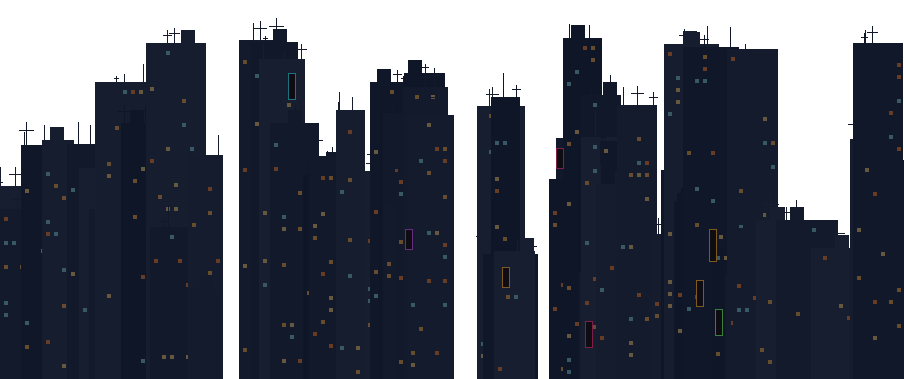
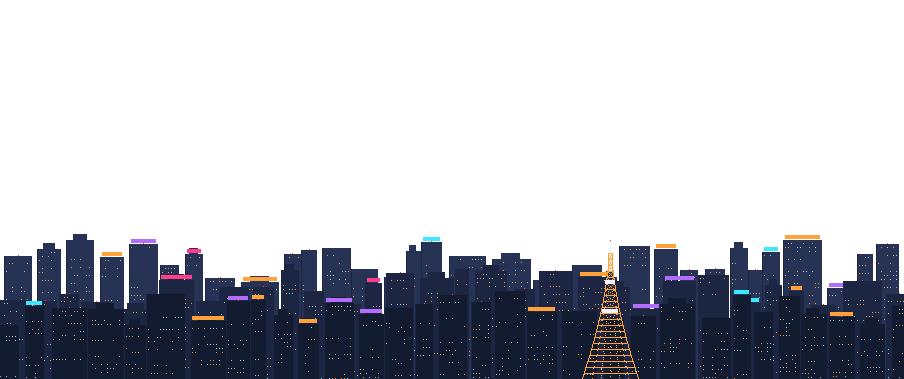
Ville peinte en pixel art (plan moyen + lointain)
- tools/pixlib.py : bibliothèque de peinture commune
- tools/paint_city.py : immeubles, toits, enseignes, câbles, tour en treillis
- Profondeur de champ repoussée pour garder le détail des toits

Claude-Session: https://claude.ai/code/session_01YTFKLDASncN46tU5ZSsTmj

diff --git a/tools/paint_city.py b/tools/paint_city.py
@@ -1,0 +1,264 @@
+"""
+paint_city.py — Ville japonaise de nuit en deux plans, peinte pixel par pixel.
+
+  city_mid  (z = -16, ~16 px/m) : immeubles proches, toits détaillés, enseignes empilées, câbles
+  city_far  (z = -40,  ~9 px/m) : skyline dense, tour en treillis, feux rouges d'obstacle
+
+Seule une bande de chaque plan est visible au-dessus du mur de la ruelle : la composition
+concentre les détails (toits, enseignes, réservoirs) dans cette bande.
+
+Usage : python3 tools/paint_city.py assets/env
+"""
+import sys, math
+import numpy as np
+sys.path.insert(0, __file__.rsplit("/", 1)[0])
+from pixlib import Canvas, PALETTE
+
+OUT = sys.argv[1] if len(sys.argv) > 1 else "assets/env"
+
+# ======================================================================== plan moyen
+MID_W, MID_H, MID_PX = 1142, 349, 15.86       # dimensions imposées par layers.json
+c = Canvas(MID_W, MID_H, seed=7)
+R = c.rng
+def m2px(meters): return int(round(meters * MID_PX))
+GROUND = MID_H                                 # y = -1 m au bas de l'image
+
+BODIES = [("n2", "n3", "n1"), ("t1", "t2", "t0"), ("q1", "q2", "q0"), ("n3", "n4", "n2")]
+SIGN_COLS = ["np", "nc", "ng", "no", "nv", "ny"]
+
+def water_tank(x, y):
+    """Réservoir cylindrique sur pieds, posé sur un toit (y = niveau du toit)."""
+    w, h = 16, 12
+    for i in range(3):
+        c.vline(x + 2 + i * 6, y - 6, 6, "m2")
+    c.hline(x, y - 6, w, "m3")
+    for yy in range(h):
+        for xx in range(w):
+            t = xx / (w - 1)
+            col = "m4" if 0.2 < t < 0.4 else ("m3" if t < 0.7 else "m2")
+            if yy in (2, h - 3): col = "m1"
+            c.px(x + xx, y - 6 - h + yy, col)
+    for xx in range(2, w - 2):                                   # couvercle bombé
+        c.px(x + xx, y - 6 - h - 1, "m3")
+    c.hline(x + 4, y - 6 - h - 2, w - 8, "m4")
+
+def billboard(x, y, w, h, col):
+    """Panneau publicitaire sur structure en treillis (y = niveau du toit)."""
+    leg = 10
+    for i in range(0, w, 8):
+        c.vline(x + i, y - leg, leg, "m2")
+        c.line(x + i, y - leg, x + i + 8, y, "m1")
+    c.hline(x, y - leg, w, "m3")
+    by = y - leg - h
+    c.rect(x, by, w, h, "m1")
+    c.rect(x + 1, by + 1, w - 2, h - 2, col, emi=(PALETTE[col] * 0.55).astype(np.uint8))
+    # visuel : bande + texte
+    c.rect(x + 2, by + 2, w // 3, h - 4, "nw", emi=(PALETTE["nw"] * 0.5).astype(np.uint8))
+    for i in range(3):
+        c.glyph_random(x + w // 3 + 5 + i * 9, by + (h - 7) // 2, 7, 7, "black", "black", 0.45)
+    for i in range(0, w, 6):                                     # spots éclairant le panneau
+        c.px(x + i + 2, by - 1, "wy3", "wy3")
+
+def rooftop_sign(x, y, n, col):
+    """Grandes lettres néon sur le toit (y = niveau du toit)."""
+    c.hline(x - 2, y - 3, n * 12 + 2, "m2")
+    for i in range(n):
+        c.vline(x + i * 12 + 4, y - 3, 3, "m1")
+        c.glyph_random(x + i * 12, y - 15, 10, 11, col, col, 0.42)
+
+def vertical_signs(x, y_top, y_bot, side_w=11):
+    """Pile d'enseignes verticales sur la façade (typique des zakkyo biru)."""
+    y = y_top
+    while y < y_bot - 16:
+        h = int(R.integers(14, 30))
+        col = SIGN_COLS[int(R.integers(0, len(SIGN_COLS)))]
+        style = R.random()
+        c.rect(x, y, side_w, h, "m0")
+        if style < 0.5:                                          # caisson lumineux
+            c.rect(x + 1, y + 1, side_w - 2, h - 2, col, emi=(PALETTE[col] * 0.7).astype(np.uint8))
+            for k in range(max(1, (h - 4) // 6)):
+                c.glyph_random(x + 3, y + 3 + k * 6, 5, 5, "black", "black", 0.45)
+        else:                                                    # tubes néon sur fond sombre
+            c.frame(x, y, side_w, h, col)
+            for ex in (x, x + side_w - 1):
+                if 0 <= ex < c.W:
+                    c.emi[y:y + h, ex] = PALETTE[col]
+            for k in range(max(1, (h - 4) // 6)):
+                c.glyph_random(x + 3, y + 3 + k * 6, 5, 5, col, col, 0.4)
+        y += h + int(R.integers(1, 4))
+
+def apartment(x, w, top):
+    body, light, dark = BODIES[int(R.integers(0, len(BODIES)))]
+    c.rect(x, top, w, GROUND - top, body)
+    c.vline(x, top, GROUND - top, light); c.vline(x + w - 1, top, GROUND - top, dark)
+    floor_h = 16
+    for fy in range(top + 6, GROUND - 8, floor_h):
+        c.hline(x, fy + floor_h - 4, w, light)                   # dalle de balcon
+        c.hline(x, fy + floor_h - 3, w, dark)
+        for bx in range(x + 2, x + w - 2, 2):                    # garde-corps
+            c.px(bx, fy + floor_h - 6, dark); c.px(bx, fy + floor_h - 5, dark)
+        c.hline(x + 1, fy + floor_h - 7, w - 2, dark)
+        for ux in range(x + 4, x + w - 12, 14):                  # fenêtres / baies
+            lit = R.random() < 0.38
+            col = ("wy2" if R.random() < 0.7 else "wc1") if lit else "n1"
+            emi = (PALETTE[col] * R.uniform(0.6, 1.0)).astype(np.uint8) if lit else None
+            c.rect(ux, fy + 2, 9, 7, col, emi=emi)
+            if lit and R.random() < 0.5:                         # rideau
+                c.rect(ux + 6, fy + 2, 3, 7, "wy1", emi=(PALETTE["wy1"] * 0.6).astype(np.uint8))
+            if R.random() < 0.35:                                # clim sur le balcon
+                c.rect(ux + 10, fy + floor_h - 9, 3, 3, "m4")
+            if R.random() < 0.15:                                # linge
+                for k in range(4):
+                    c.px(ux + 1 + k * 2, fy + floor_h - 8, ["np", "wc2", "white", "ny"][k % 4])
+    roof(x, w, top, light, dark)
+
+def office(x, w, top):
+    body, light, dark = BODIES[int(R.integers(0, len(BODIES)))]
+    c.rect(x, top, w, GROUND - top, body)
+    c.vline(x, top, GROUND - top, light)
+    band = 11
+    for fy in range(top + 5, GROUND - 6, band):
+        on = R.random() < 0.55
+        cool = R.random() < 0.7
+        for wx in range(x + 3, x + w - 3):
+            if (wx - x) % 7 == 6:
+                c.px(wx, fy + 3, dark); c.px(wx, fy + 4, dark); c.px(wx, fy + 5, dark); c.px(wx, fy + 6, dark)
+                continue
+            if on and R.random() < 0.92:
+                colk = "wc2" if cool else "wy2"
+                c.rect(wx, fy + 3, 1, 4, colk, emi=(PALETTE[colk] * 0.62).astype(np.uint8))
+            else:
+                c.rect(wx, fy + 3, 1, 4, "n1")
+        c.hline(x, fy + 8, w, dark)
+    if R.random() < 0.8:
+        vertical_signs(x + w - 2 if R.random() < 0.5 else x - 9, top + 10, GROUND)
+    roof(x, w, top, light, dark)
+
+def old_house(x, w, top):
+    """Maison basse à toit de tuiles, rez-de-chaussée éclairé."""
+    c.rect(x, top + 10, w, GROUND - top - 10, "t1")
+    for yy in range(top, top + 10):                              # toit en tuiles
+        inset = (top + 10 - yy) // 2
+        for xx in range(x - 4 + inset, x + w + 4 - inset):
+            c.px(xx, yy, "m2" if (xx // 3 + yy) % 2 else "m1")
+    c.hline(x - 4, top + 9, w + 8, "m0")
+    for wx in range(x + 4, x + w - 10, 16):
+        lit = R.random() < 0.7
+        c.rect(wx, top + 16, 10, 8, "wy1" if lit else "n1", emi=PALETTE["wy1"] if lit else None)
+        c.vline(wx + 5, top + 16, 8, "t0")
+
+def roof(x, w, top, light, dark):
+    c.hline(x - 1, top - 2, w + 2, light); c.hline(x - 1, top - 1, w + 2, dark)   # acrotère
+    for fx in range(x, x + w, 3):                                # grillage de toit
+        c.vline(fx, top - 7, 5, dark)
+    c.hline(x, top - 7, w, dark)
+    r = R.random()
+    if r < 0.35 and w > 40:
+        water_tank(x + int(R.integers(4, max(5, w - 20))), top - 2)
+    elif r < 0.55 and w > 50:
+        billboard(x + 4, top - 2, min(w - 8, 64), 22, SIGN_COLS[int(R.integers(0, len(SIGN_COLS)))])
+    elif r < 0.75 and w > 50:
+        rooftop_sign(x + 6, top - 2, min(4, (w - 10) // 12), SIGN_COLS[int(R.integers(0, len(SIGN_COLS)))])
+    if R.random() < 0.6:                                         # cage d'escalier
+        sx = x + int(R.integers(2, max(3, w - 16)))
+        c.rect(sx, top - 14, 14, 12, dark); c.hline(sx, top - 14, 14, light)
+        c.rect(sx + 3, top - 10, 4, 7, "wy2", emi=(PALETTE["wy2"] * 0.5).astype(np.uint8))
+    for _ in range(int(R.integers(1, 4))):                       # antennes
+        ax = x + int(R.integers(2, max(3, w - 2))); ah = int(R.integers(8, 26))
+        c.vline(ax, top - 2 - ah, ah, dark)
+        for k in range(int(R.integers(1, 4))):
+            ky = top - 2 - ah + 3 + k * 4
+            c.hline(ax - 3, ky, 7, dark)
+        if R.random() < 0.4:
+            c.px(ax, top - 3 - ah, "wr", "wr")                   # feu d'obstacle
+
+def utility_pole(x):
+    top = GROUND - m2px(7.2)
+    c.rect(x, top, 3, GROUND - top, "m1"); c.vline(x, top, GROUND - top, "m2")
+    for k, cy in enumerate((top + 6, top + 14)):
+        c.hline(x - 12, cy, 27, "m1")
+        for ix in (x - 11, x - 4, x + 6, x + 13):
+            c.px(ix, cy - 1, "m3")
+    c.rect(x + 4, top + 22, 9, 12, "m2"); c.frame(x + 4, top + 22, 9, 12, "m3")   # transformateur
+    c.rect(x - 9, top + 24, 6, 9, "m2")
+    return top
+
+# composition : immeubles de gauche à droite
+x = -10
+kinds = ["apartment", "office", "old", "office", "apartment", "office", "apartment", "old", "office"]
+i = 0
+while x < MID_W:
+    kind = kinds[i % len(kinds)] if R.random() < 0.8 else kinds[int(R.integers(0, len(kinds)))]
+    if kind == "old":
+        w = int(R.integers(50, 80)); top = GROUND - m2px(R.uniform(4.6, 5.6))
+        old_house(x, w, top)
+    elif kind == "office":
+        w = int(R.integers(54, 96)); top = GROUND - m2px(R.uniform(6.2, 9.0))
+        office(x, w, top)
+    else:
+        w = int(R.integers(70, 130)); top = GROUND - m2px(R.uniform(5.6, 7.8))
+        apartment(x, w, top)
+    x += w + int(R.integers(-4, 10))
+    i += 1
+
+# poteaux électriques et faisceaux de câbles devant les immeubles
+poles = [int(p) for p in np.arange(40, MID_W, 190) + R.integers(-20, 20, size=len(np.arange(40, MID_W, 190)))]
+tops = [utility_pole(p) for p in poles]
+for (pa, ta), (pb, tb) in zip(zip(poles, tops), zip(poles[1:], tops[1:])):
+    for k, dy in enumerate((5, 7, 13, 15, 26)):
+        c.catenary(pa + 1, ta + dy, pb + 1, tb + dy, 8 + k * 3 + R.uniform(0, 4), "black")
+c.save(OUT, "city_mid", emi_scale=0.85)
+
+# ======================================================================== plan lointain
+FAR_W, FAR_H = 904, 379
+f = Canvas(FAR_W, FAR_H, seed=11)
+FR = f.rng
+FPX = 9.04
+FG = FAR_H
+
+def far_tower(x, w, top, body):
+    f.rect(x, top, w, FG - top, body)
+    f.vline(x, top, FG - top, "n3")
+    for wy in range(top + 3, FG, 4):
+        if FR.random() < 0.45:
+            for wx in range(x + 2, x + w - 2, 3):
+                if FR.random() < 0.35:
+                    colk = "wy2" if FR.random() < 0.6 else "wc2"
+                    f.px(wx, wy, colk, (PALETTE[colk] * FR.uniform(0.3, 0.7)).astype(np.uint8))
+    if FR.random() < 0.5:
+        f.px(x + w // 2, top - 1, "wr", "wr")
+    if FR.random() < 0.25:                                       # toit à gradins
+        f.rect(x + w // 4, top - 6, w // 2, 6, body)
+    if FR.random() < 0.3:                                        # enseigne de toit lointaine
+        colk = ["np", "nc", "no", "nv"][int(FR.integers(0, 4))]
+        f.rect(x + 2, top - 5, max(4, w - 4), 4, colk, (PALETTE[colk] * 0.6).astype(np.uint8))
+
+# skyline : couches de profondeur (plus claires = plus loin, comme dans la brume)
+for layer, (body, hmin, hmax) in enumerate((("n4", 10, 15.5), ("n3", 7.5, 12.5), ("n2", 6, 10))):
+    x = int(FR.integers(-20, 0))
+    while x < FAR_W:
+        w = int(FR.integers(14, 40))
+        top = FG - int(FR.uniform(hmin, hmax) * FPX)
+        far_tower(x, w, top, body)
+        x += w + int(FR.integers(0, 8))
+
+# tour en treillis (silhouette éclairée en orange)
+tx, base_w, ttop = 610, 54, FG - int(14.0 * FPX)
+for yy in range(ttop, FG):
+    t = (yy - ttop) / (FG - ttop)
+    half = int(2 + (base_w / 2) * t ** 1.6)
+    for side in (-1, 1):
+        f.px(tx + side * half, yy, "no", (PALETTE["no"] * 0.8).astype(np.uint8))
+    if (yy - ttop) % 6 == 0:
+        for xx in range(tx - half, tx + half + 1):
+            f.px(xx, yy, "no", (PALETTE["no"] * 0.55).astype(np.uint8))
+    if (yy - ttop) % 6 < 6:
+        k = (yy - ttop) % 6
+        f.px(tx - half + k * half // 3, yy, "no", (PALETTE["no"] * 0.45).astype(np.uint8))
+        f.px(tx + half - k * half // 3, yy, "no", (PALETTE["no"] * 0.45).astype(np.uint8))
+for (dy, dw) in ((int((FG - ttop) * 0.45), 16), (int((FG - ttop) * 0.22), 10)):   # plateformes
+    f.rect(tx - dw // 2, ttop + dy, dw, 4, "nw", (PALETTE["wy3"] * 0.9).astype(np.uint8))
+f.vline(tx, ttop - 12, 12, "nw", (PALETTE["wy3"]).astype(np.uint8))
+f.px(tx, ttop - 13, "wr", "wr")
+f.save(OUT, "city_far", emi_scale=1.0)
+print("ville peinte : city_mid", (MID_W, MID_H), "city_far", (FAR_W, FAR_H))

diff --git a/tools/pixlib.py b/tools/pixlib.py
@@ -1,0 +1,94 @@
+"""pixlib.py — petite bibliothèque de peinture pixel art (couleur + hauteur + émission)."""
+import math, os
+import numpy as np
+from PIL import Image
+
+def hexc(s):
+    s = s.lstrip("#"); return np.array([int(s[i:i + 2], 16) for i in (0, 2, 4)], np.uint8)
+
+PALETTE = {k: hexc(v) for k, v in {
+    # nuit urbaine (silhouettes bleutées)
+    "n0": "070a14", "n1": "0c1222", "n2": "131b31", "n3": "1c2642", "n4": "263355", "n5": "33436b", "n6": "475a86",
+    # variantes teintées
+    "t0": "0e0f22", "t1": "16183a", "t2": "211f4a",          # violacé
+    "q0": "081418", "q1": "0e2026", "q2": "162f36",          # sarcelle
+    # métal / béton nocturne
+    "m0": "0b0e14", "m1": "151a24", "m2": "202836", "m3": "2e384a", "m4": "44506a",
+    # fenêtres (émissif)
+    "wy0": "4a2a10", "wy1": "a35e22", "wy2": "e09a48", "wy3": "ffd492",
+    "wc0": "123a4a", "wc1": "2f8ca8", "wc2": "8fe3f2", "wc3": "e6fbff",
+    "wr": "ff3b2a", "wrd": "5a1410",
+    # néons
+    "np": "ff3d8b", "nc": "3de8ff", "ng": "7dff6a", "no": "ffa23a", "nv": "b46bff", "ny": "fff06a", "nw": "f4f0ff",
+    "black": "05060a", "white": "f2efe6",
+}.items()}
+
+class Canvas:
+    def __init__(self, w, h, seed=0, transparent=True):
+        self.W, self.H = w, h
+        self.alb = np.zeros((h, w, 3), np.uint8)
+        self.alpha = np.zeros((h, w), np.uint8) if transparent else np.full((h, w), 255, np.uint8)
+        self.hgt = np.zeros((h, w), np.float32)
+        self.emi = np.zeros((h, w, 3), np.uint8)
+        self.rng = np.random.default_rng(seed)
+
+    @staticmethod
+    def col(c):
+        return PALETTE[c] if isinstance(c, str) else np.asarray(c, np.uint8)
+
+    def rect(self, x, y, w, h, c, emi=None, hgt=None, opaque=True):
+        x0, y0, x1, y1 = max(0, int(x)), max(0, int(y)), min(self.W, int(x + w)), min(self.H, int(y + h))
+        if x1 <= x0 or y1 <= y0: return
+        self.alb[y0:y1, x0:x1] = self.col(c)
+        if opaque: self.alpha[y0:y1, x0:x1] = 255
+        if emi is not None: self.emi[y0:y1, x0:x1] = self.col(emi)
+        if hgt is not None: self.hgt[y0:y1, x0:x1] = hgt
+
+    def px(self, x, y, c, emi=None):
+        x, y = int(x), int(y)
+        if 0 <= x < self.W and 0 <= y < self.H:
+            self.alb[y, x] = self.col(c); self.alpha[y, x] = 255
+            if emi is not None: self.emi[y, x] = self.col(emi)
+
+    def hline(self, x, y, w, c, emi=None): self.rect(x, y, w, 1, c, emi)
+    def vline(self, x, y, h, c, emi=None): self.rect(x, y, 1, h, c, emi)
+
+    def line(self, x0, y0, x1, y1, c, emi=None):
+        n = int(max(abs(x1 - x0), abs(y1 - y0))) or 1
+        for i in range(n + 1):
+            self.px(round(x0 + (x1 - x0) * i / n), round(y0 + (y1 - y0) * i / n), c, emi)
+
+    def frame(self, x, y, w, h, c):
+        self.hline(x, y, w, c); self.hline(x, y + h - 1, w, c); self.vline(x, y, h, c); self.vline(x + w - 1, y, h, c)
+
+    def dim(self, x, y, w, h, k):
+        x0, y0, x1, y1 = max(0, int(x)), max(0, int(y)), min(self.W, int(x + w)), min(self.H, int(y + h))
+        if x1 > x0 and y1 > y0:
+            self.alb[y0:y1, x0:x1] = (self.alb[y0:y1, x0:x1] * k).astype(np.uint8)
+
+    def glyph_random(self, x, y, w, h, c, emi=None, density=0.5):
+        g = self.rng.random((h, w)) < density
+        g[h // 2, :] |= self.rng.random() < 0.6
+        g[:, w // 2] |= self.rng.random() < 0.6
+        for j in range(h):
+            for i in range(w):
+                if g[j, i]: self.px(x + i, y + j, c, emi)
+
+    def catenary(self, xa, ya, xb, yb, sag, c):
+        for x in range(int(xa), int(xb) + 1):
+            t = (x - xa) / max(1, xb - xa)
+            self.px(x, ya + (yb - ya) * t + sag * 4 * t * (1 - t), c)
+
+    def save(self, out_dir, name, normal=False, emi_scale=1.0):
+        os.makedirs(out_dir, exist_ok=True)
+        Image.fromarray(np.dstack([self.alb, self.alpha]), "RGBA").save(os.path.join(out_dir, f"{name}.png"))
+        e = np.clip(self.emi.astype(np.float32) * emi_scale, 0, 255).astype(np.uint8)
+        Image.fromarray(np.dstack([e, np.full((self.H, self.W), 255, np.uint8)]), "RGBA").save(os.path.join(out_dir, f"{name}_emit.png"))
+        if normal:
+            h = self.hgt
+            gx = np.zeros_like(h); gy = np.zeros_like(h)
+            gx[:, 1:-1] = (h[:, 2:] - h[:, :-2]) * 0.5
+            gy[1:-1, :] = (h[2:, :] - h[:-2, :]) * 0.5
+            n = np.dstack([-gx, gy, np.full_like(h, 1.2)])
+            n /= np.linalg.norm(n, axis=2, keepdims=True)
+            Image.fromarray(((n * 0.5 + 0.5) * 255).astype(np.uint8), "RGB").save(os.path.join(out_dir, f"{name}_normal.png"))

diff --git a/README.md b/README.md
@@ -50,8 +50,16 @@ distributeurs, rideaux de fer, climatiseurs, vélo, gachapon…). Le script prod
 Pour modifier le mur : édite la section « composition » en bas du script, puis
 `python3 tools/paint_wall.py assets/env`.
 
+### La ville
+Peinte par `tools/paint_city.py` (bibliothèque commune : `tools/pixlib.py`) :
+- `city_mid` : immeubles d'habitation et de bureaux, maisons à toit de tuiles, réservoirs d'eau,
+  panneaux publicitaires sur treillis, enseignes empilées, poteaux électriques et câbles ;
+- `city_far` : skyline en trois couches de brume, tour en treillis éclairée, feux d'obstacle.
+
+Seule la bande au-dessus du mur est visible : les toits sont donc gardés entre ~6 et 9 m.
+
 ### Les autres plans
-Ville, montagnes et premier plan restent des placeholders générés : remplace-les par tes images
+Montagnes et premier plan restent des placeholders générés : remplace-les par tes images
 en gardant les noms, ou ajoute-en dans `layers.json` (`z` = profondeur, `x`/`y`/`w`/`h` en
 mètres). Densité conseillée : 32 texels/m au plan de jeu, moins pour les plans lointains.
 
